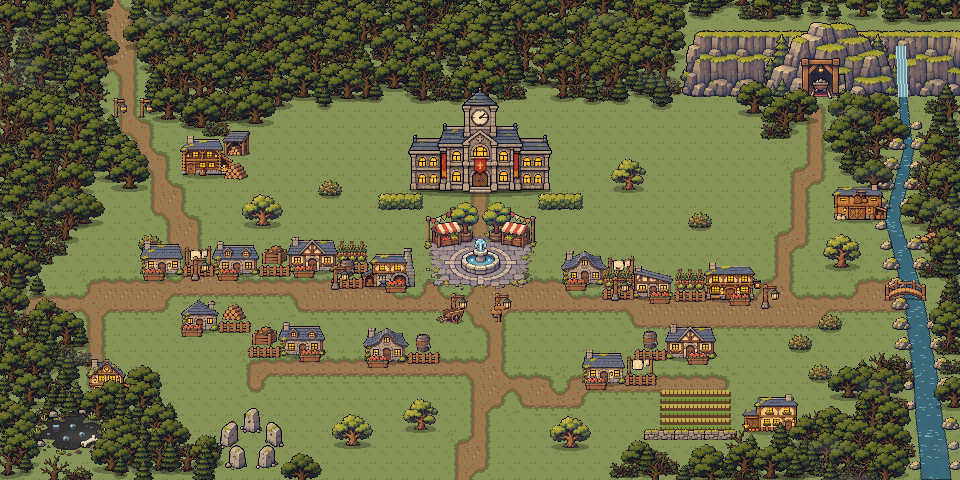
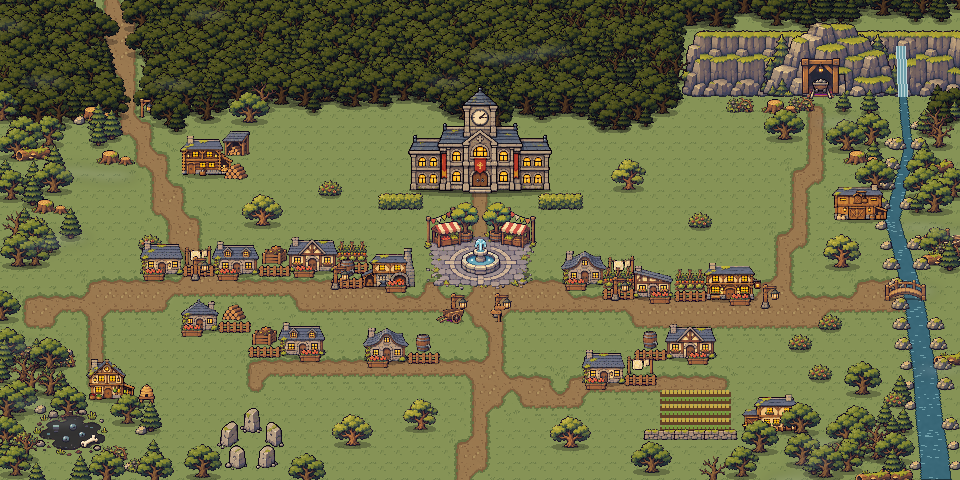
M2b art: dense north forest, sparse fringe round the town (D-047 amended)
Claude-Session: https://claude.ai/code/session_01Dr9VTq7XGS6mJUnvAqsTof

Changed region(s): [[0.0, 0.0, 1.0, 1.0], [0.625, 0.1562, 1.0, 1.0], [0.2812, 0.9375, 0.3438, 1.0]]

diff --git a/art/town_wide.py b/art/town_wide.py
@@ -16,7 +16,7 @@ from pixellab_town import wang_ground
 B = ROOT + "gpt/"
 W, H = 960, 480
 CX, HY = 480, 300           # town spine and High Street
-FOREST = 104                # the Skarthorn's edge along the north
+FOREST = 114                # the Skarthorn's edge along the north
 MTN_X = 700                 # mountain and cliffs from here to the east edge
 
 RIVER = [(902, 92), (908, 150), (892, 220), (912, 290), (924, 370), (936, 480)]
@@ -33,10 +33,15 @@ def river_dist(x, y):
     return best, wid
 
 
-def in_town(x, y, grown):
+def town_r(x, y, grown):
+    """Below 1 inside the town; grows outwards (a ragged ellipse)."""
     k = 1.08 if grown else 1.0
     nx, ny = (x - CX) / (400 * k), (y - 290) / (190 * k)
-    return nx * nx + ny * ny + 0.12 * np.sin(x / 31.0) * np.cos(y / 19.0) + 0.06 * np.sin(x / 11.0 + y / 7.0) < 1
+    return nx * nx + ny * ny + 0.12 * np.sin(x / 31.0) * np.cos(y / 19.0) + 0.06 * np.sin(x / 11.0 + y / 7.0)
+
+
+def in_town(x, y, grown):
+    return town_r(x, y, grown) < 1
 
 
 def south_way(x, y):
@@ -174,15 +179,20 @@ def build(state):
         add(piece("props", R.choice([0, 1, 2, 12])), x, by)                                  # trees and bushes left standing in town
     add(piece("sites", 0), 70, 456, False)                                                  # tar pit, west
     add(piece("sites", 3), 250, 470, False)                                                 # standing stones
-    # the Skarthorn along the north and the Tangle round the sides; the mountain and the road out stay clear
+    # the Skarthorn along the north: the true wilds, dense and dark. Round the sides and south the town sits at the
+    # edge of them: a sparse fringe of trees, bushes, stumps and dead trees that thickens towards the map edge.
+    # The mountain and the road out stay clear.
     blocked = dirt | wm
     for gy in range(-6, H + 20, 13):
         for gx in range(-10, W + 10, 15):
             x, y = gx + R.randint(-5, 5), gy + R.randint(-4, 4)
             if not (0 <= x < W and 0 <= y < H + 8):
                 continue
-            north = y < FOREST + 6 * np.sin(x / 23.0)
-            if not north and in_town(x, y, grown):
+            north = y < FOREST + 6 * np.sin(x / 23.0) + 10 * np.sin(x / 71.0)
+            r = town_r(x, y, grown)
+            if not north and r < 1:
+                continue
+            if not north and R.random() > 0.18 + 0.6 * min(1.0, (r - 1) / 0.9):
                 continue
             if x > MTN_X - 30 and 22 < y < 112 or south_way(x, y):
                 continue
@@ -190,8 +200,16 @@ def build(state):
                 continue
             if (30 < x < 110 and 430 < y < 480) or (210 < x < 290 and 446 < y < 490) or (650 < x < 800 and 376 < y < 452):
                 continue
-            k = R.choices([0, 1, 2, 5, 6, 7, 8, 14, 15], [3, 3, 2, 3, 3, 2, 3, 2, 2])[0]
-            add(dark(piece("props", k)), x, y, k < 9)
+            if north:
+                for ox, oy in ((0, 0), (7, 6)):                                             # two layers: no gaps
+                    k = R.choices([0, 1, 2, 5, 6, 7, 8], [3, 3, 2, 4, 4, 3, 1])[0]
+                    add(dark(piece("props", k), 0.5), x + ox, y + oy)
+            elif R.random() < 0.3:
+                k = R.choice([("props", 12), ("props", 14), ("generic", 34), ("generic", 30), ("props", 16)])
+                add(piece(*k), x, y, False)                                                  # bushes, brambles, stumps, logs
+            else:
+                k = R.choices([0, 1, 2, 5, 6, 7, 8], [3, 3, 2, 3, 3, 2, 2])[0]
+                add(dark(piece("props", k), 0.86), x, y)
     sprites.sort(key=lambda s: s[0])
     for _, p, cx, by, sh in sprites:
         sb.put(img, p, cx, by, sh)

diff --git a/docs/DECISIONS.md b/docs/DECISIONS.md
@@ -319,5 +319,5 @@ All entries below were chosen by Morgan in the planning workshop of 2026-11-09 u
 ## D-047 The town starts open and fills in as it grows
 
 - **Status:** Accepted (2026-11-14) by Morgan in the `layout1` form. Amended 2026-11-15 by Morgan in chat (the wide map, the north forest, the mine upper right, the open south; then the forest road to the north-west and an organic town).
-- **Decision:** The town map is wide and scrolls left and right, opening on the Hall (60 × 30 tiles in `art/town_wide.py`). The Skarthorn forest runs along the north, unbroken behind the Hall; the road into it leaves the town to the north-west, past the woodcutter, through a lantern gate. The town is organic: the streets curve, houses sit at uneven spacing and set-backs (some on the south side of the High Street), and trees and bushes stand inside the town. The mountain and the mine sit in the upper right, with a track down to the High Street. The Hall sits top centre with a walkway down to the square. The High Street runs across, and a cross street runs south and leaves the map through an open south edge with no forest on it: the road in and out (D-043). The stream falls from the mountain beside the mine and runs down the east side, widening into a river, with a bridge and a jetty. The woodcutter is to the west and the farm to the south-east, with plots through the town, and the Tangle all round with the special sites in clearings. On day one the town looks open: buildings on grass. Each building gains its surroundings (garden, fence, washing line, woodpile, flower boxes, orchard) as it is built and upgraded, so the fully grown town looks like the dense concept. The generic assets (filler cottages, garden, fence, street and mood pieces) are kept as cleaned.
-- **Why:** Morgan chose "Start open (B) and fill in towards dense (A) as you build and upgrade" over dense from the start or open all the way. The town visibly filling in rewards building and upgrading, and the open early town keeps plots easy to find on a phone. The amendment: Morgan, 2026-11-15, "It's supposed to have the forest north with the mine in the upper right and be scrollable from left to right with the bottom open to having a way out"; the first version had dropped the scroll and the north road, which lived only in D-041 (Proposed). River placement left to Claude ("Do whatever you think best for the river ... same vibe"). Then: "i don't want the forest entrance straight above the town I wanted it off to the left somewhere. I also want the town to feel more organic".
+- **Decision:** The town map is wide and scrolls left and right, opening on the Hall (60 × 30 tiles in `art/town_wide.py`). The Skarthorn forest runs along the north, unbroken behind the Hall; the road into it leaves the town to the north-west, past the woodcutter, through a lantern gate. The town is organic: the streets curve, houses sit at uneven spacing and set-backs (some on the south side of the High Street), and trees and bushes stand inside the town. The north forest is the true wilds, dense and dark; round the sides and south the town sits at their edge, a sparse fringe of trees, bushes, stumps and dead trees that thickens towards the map edge. The mountain and the mine sit in the upper right, with a track down to the High Street. The Hall sits top centre with a walkway down to the square. The High Street runs across, and a cross street runs south and leaves the map through an open south edge with no forest on it: the road in and out (D-043). The stream falls from the mountain beside the mine and runs down the east side, widening into a river, with a bridge and a jetty. The woodcutter is to the west and the farm to the south-east, with plots through the town, and the Tangle all round with the special sites in clearings. On day one the town looks open: buildings on grass. Each building gains its surroundings (garden, fence, washing line, woodpile, flower boxes, orchard) as it is built and upgraded, so the fully grown town looks like the dense concept. The generic assets (filler cottages, garden, fence, street and mood pieces) are kept as cleaned.
+- **Why:** Morgan chose "Start open (B) and fill in towards dense (A) as you build and upgrade" over dense from the start or open all the way. The town visibly filling in rewards building and upgrading, and the open early town keeps plots easy to find on a phone. The amendment: Morgan, 2026-11-15, "It's supposed to have the forest north with the mine in the upper right and be scrollable from left to right with the bottom open to having a way out"; the first version had dropped the scroll and the north road, which lived only in D-041 (Proposed). River placement left to Claude ("Do whatever you think best for the river ... same vibe"). Then: "i don't want the forest entrance straight above the town I wanted it off to the left somewhere. I also want the town to feel more organic"; "to the north should be like the real forest. The trees around the town should be sparser so it shows they are like at the edge of the true wilds".

diff --git a/docs/HANDOFF.md b/docs/HANDOFF.md
@@ -20,7 +20,7 @@ M2 re-planned on 2026-11-14 (D-035 to D-038; PR #13, which also synced AI-Master
 
 ## Just done
 
-- 2026-11-15 M2b PixelLab (cloud session, branch `claude/vibrant-davinci-m5m64c`, cut from `m2b-art-workshop`): token saved as a network secret on the "Network" environment (proxy-injected for `api.pixellab.ai`; use the token from PixelLab's "Claude Code" option, not "Claude web"). Calls go over HTTPS JSON-RPC with a placeholder bearer; no `mcp__pixellab__*` tools needed. Trial: 40 generations, 39 left. Test 1 (grass to dirt tileset) rendered on the town map: `art/gpt/_town_compare_pl.png`; roads blend, diagonal lane stair-steps, grass paler than the anchor. No PixelLab skill in the catalog; community ones not installed. Then Morgan flagged the lost layout vision; D-047 amended (wide left-right map, Skarthorn north, mine upper right, open south) and rebuilt as `art/town_wide.py` (`art/gpt/_town_wide_*.png`); LESSONS entry added. PixelLab working guide: `docs/workshop/pixellab-guide.md` (read before any PixelLab call). Second pass: forest road moved to the north-west, town made organic (curved streets, uneven houses, trees in town). Waiting on Morgan: does the wide map match, and 1 generation for richer grass chained to the road tiles?
+- 2026-11-15 M2b PixelLab (cloud session, branch `claude/vibrant-davinci-m5m64c`, cut from `m2b-art-workshop`): token saved as a network secret on the "Network" environment (proxy-injected for `api.pixellab.ai`; use the token from PixelLab's "Claude Code" option, not "Claude web"). Calls go over HTTPS JSON-RPC with a placeholder bearer; no `mcp__pixellab__*` tools needed. Trial: 40 generations, 39 left. Test 1 (grass to dirt tileset) rendered on the town map: `art/gpt/_town_compare_pl.png`; roads blend, diagonal lane stair-steps, grass paler than the anchor. No PixelLab skill in the catalog; community ones not installed. Then Morgan flagged the lost layout vision; D-047 amended (wide left-right map, Skarthorn north, mine upper right, open south) and rebuilt as `art/town_wide.py` (`art/gpt/_town_wide_*.png`); LESSONS entry added. PixelLab working guide: `docs/workshop/pixellab-guide.md` (read before any PixelLab call). Second pass: forest road moved to the north-west, town made organic (curved streets, uneven houses, trees in town). Third pass: dense dark north forest, sparse fringe round the sides and south. Morgan: the mountain and mine aren't integrated; proposed a 1-generation cliff tileset (option 2: inpaint the corner, 9-10 generations). Waiting on Morgan: yes to the cliff tileset; does the wide map match, and 1 generation for richer grass chained to the road tiles?
 - 2026-11-14 M2b art: the town map from the ChatGPT pieces is "not quite there yet" (Morgan); Morgan chose PixelLab and a cloud session. The art workspace moved into `art/` (outputs pixel-identical to the PC copies), `.mcp.json` added (token from `PIXELLAB_API_TOKEN`, never in the repo).
 - 2026-11-14 Morgan, starting the M2a test town: "it needs to be clearer who is pinned and who isnt" (People tab shows only " · Pinned" at the end of a row, `apps/web/src/ui/PeopleTab.tsx:110`); "There also isn't really anything to actually do at this point so it's kind of boring. There is nothing I can actively just do. See the game dragonscape for reference to like always having something to do". The second touches D-025 (no Collect tap) and the Avoid list item "any reward for tapping" (`docs/UI_STYLE.md:74`): a direction question, asked in chat.
 - 2026-11-14 Morgan chose a planning round on "always something to do" before more game steps, and will run the M2b art workshop themself in a desktop session ("so it can potentially use the artcraft apps"). Round 1 (`play1`): https://claude.ai/artifact/HdpkiWhhZkeEPV2FLgAFKg.

diff --git a/docs/workshop/m2b-dragonscape.md b/docs/workshop/m2b-dragonscape.md
@@ -180,3 +180,5 @@ Town map built from the cleaned pieces (`gpt_town.py`, 30 × 30 tiles), two stat
 Morgan: "we lost the vision on the town layout a bit. It's supposed to have the forest north with the mine in the upper right and be scrollable from left to right with the bottom open to having a way out". Approved the fix (D-047 amended) and left the river to Claude. `art/town_wide.py` builds a 60 × 30-tile map (960 × 480 px) on the PixelLab road tiles: Skarthorn along the north with a lantern-gated north road, mountain and mine upper right, a waterfall beside the mine feeding the east river, the High Street across, the cross street out through a clear south edge, woodcutter north-west, forager and tar pit west, farm south-east. Outputs `art/gpt/_town_wide_day1.png`, `_town_wide_grown.png`, `_town_wide_phone.png` (the opening view at 1.5x on a 412 px phone). Not checked: the mine's track meets the cliff below the entrance, not at it; a thin grass strip remains above the west end of the cliffs.
 
 Second pass, same day. Morgan: "i don't want the forest entrance straight above the town I wanted it off to the left somewhere. I also want the town to feel more organic". The forest road now leaves the High Street to the north-west, past the woodcutter, through a lantern gate; the forest is unbroken behind the Hall. Streets curve (High Street and cross street follow sine curves; lanes are polylines), houses sit at uneven spacing and set-backs with two on the south side of the High Street, trees and bushes stand in town, and the town's edge is more ragged. Communication: Claude follows `docs/workshop/pixellab-guide.md` section 4 (a brief before each call, results in place).
+
+Third pass. Morgan: "to the north should be like the real forest. The trees around the town should be sparser so it shows they are like at the edge of the true wilds". North forest: two layers of trees, darker (0.5), edge pushed down to y 114. Sides and south: a sparse fringe (18 % near the town rising to 78 % at the map edge), lighter trees (0.86), with bushes, brambles, stumps and logs. Also asked: the mountain and mine don't read as a mountain or as one piece; proposed a 1-generation PixelLab cliff tileset, waiting for Morgan's yes.
